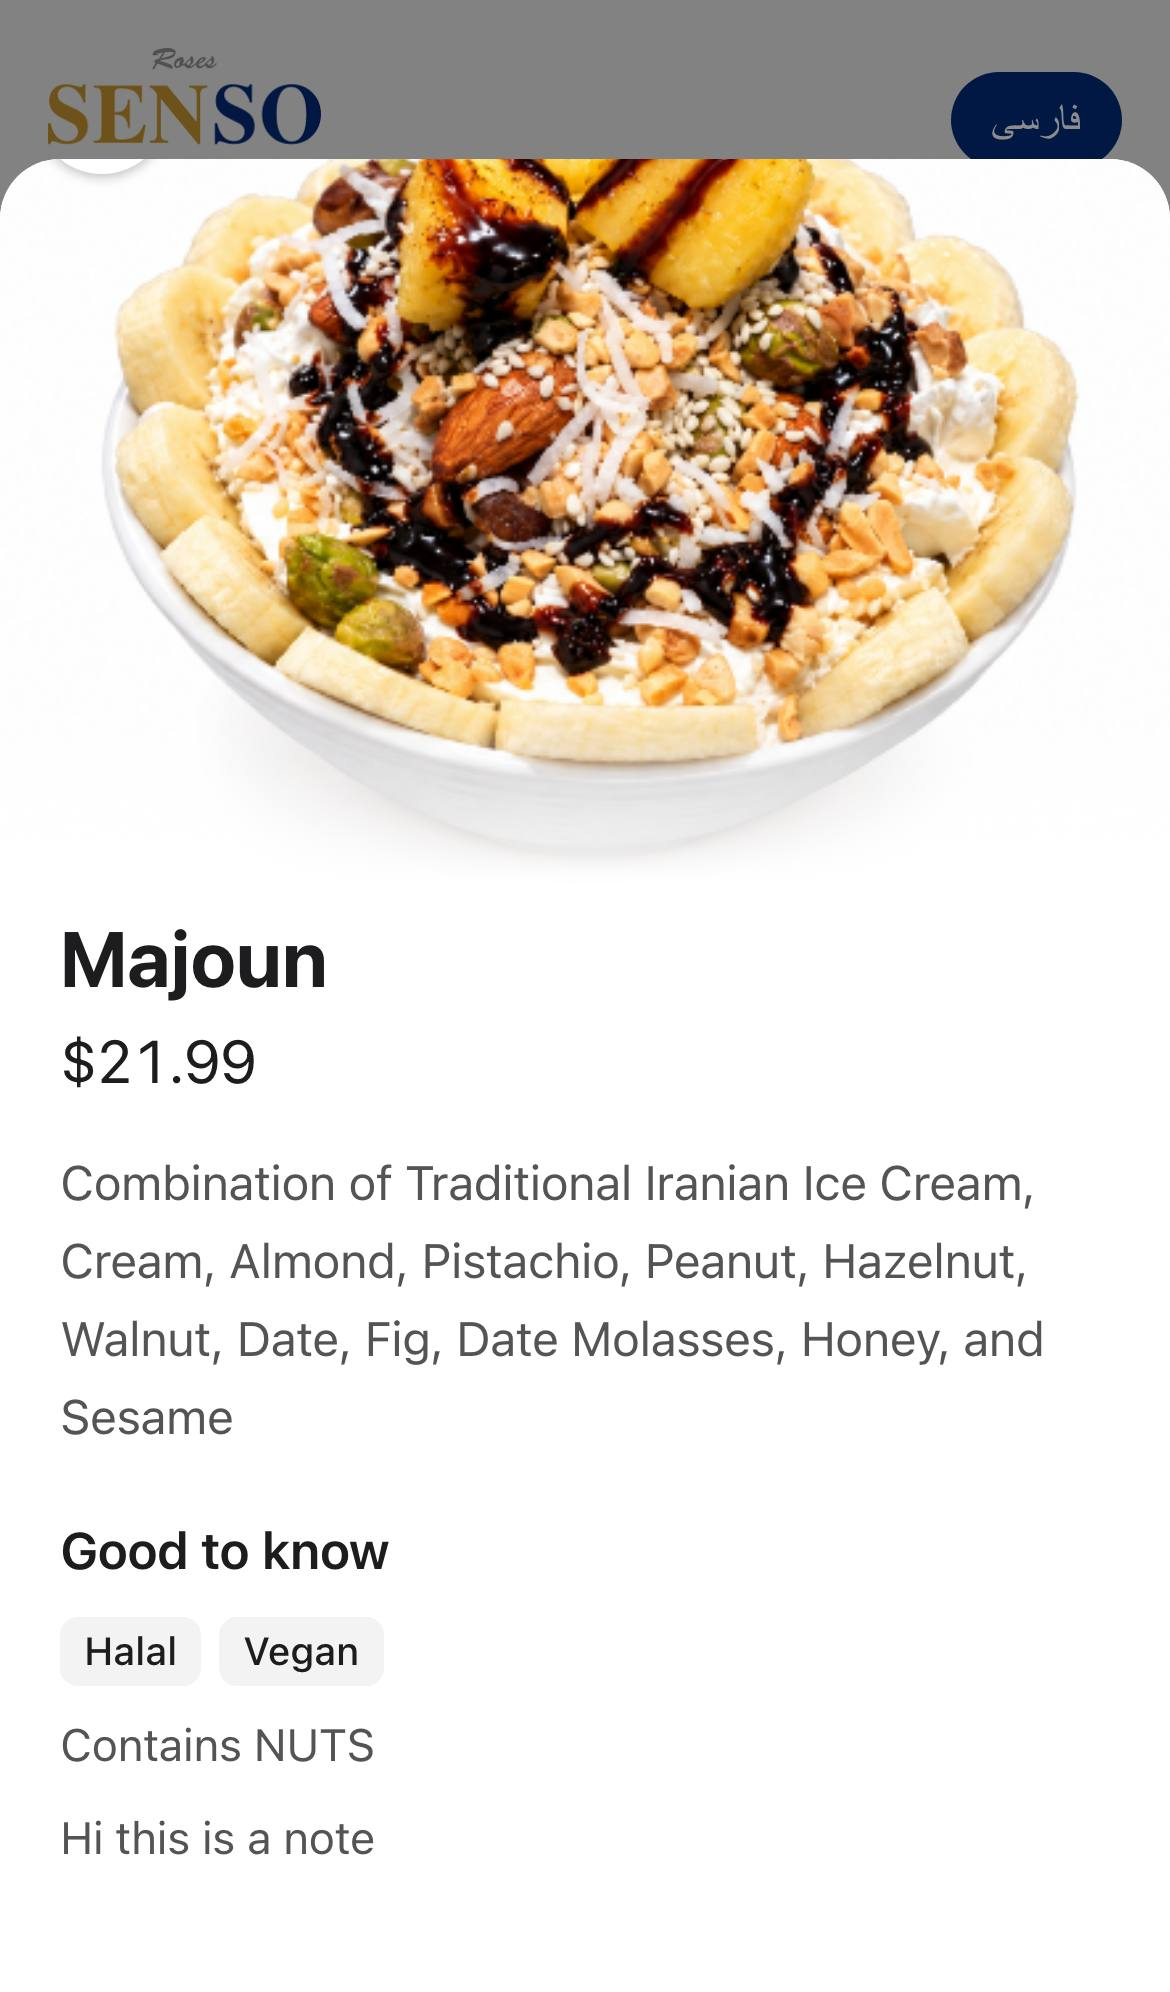
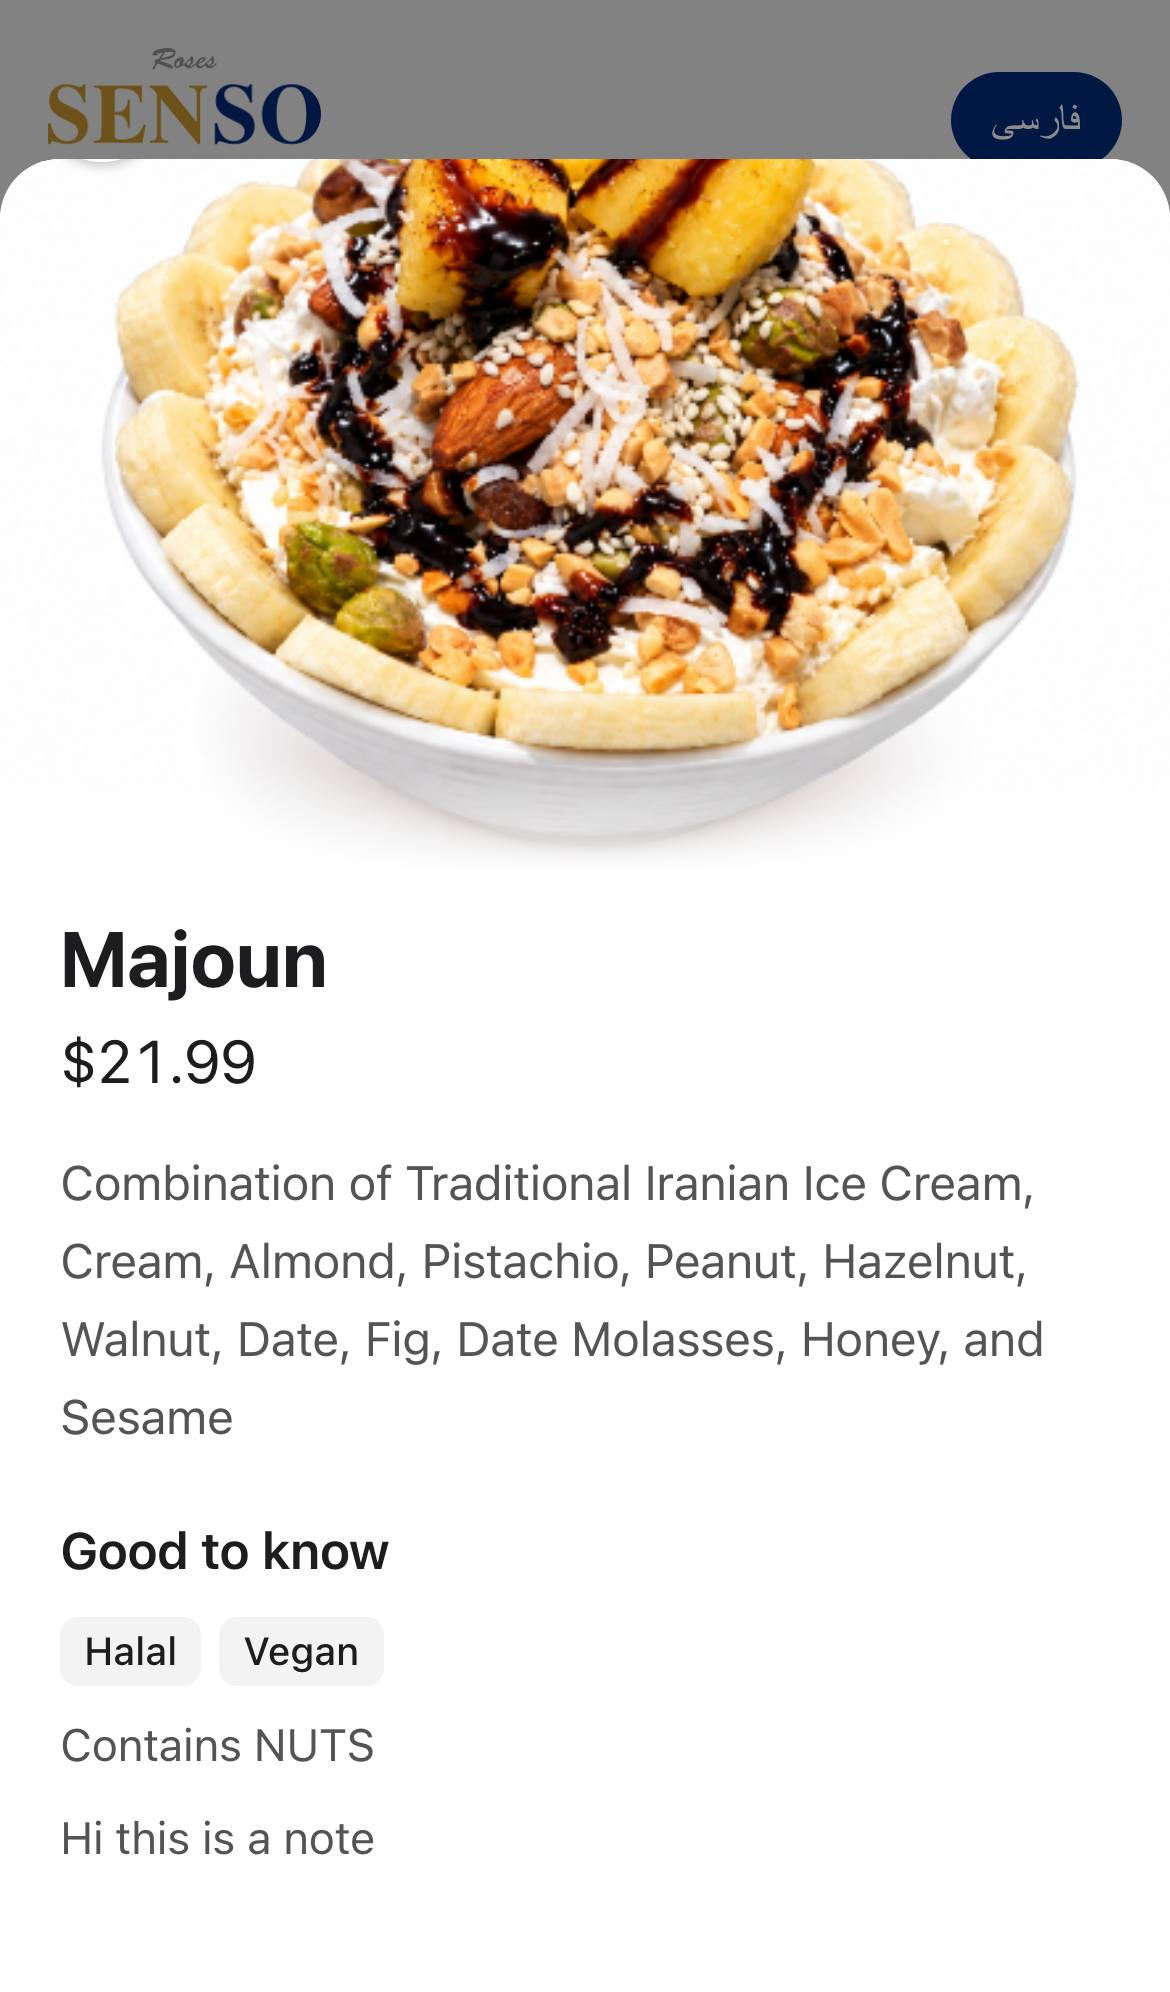
Item popup: the photo fade reduced to a slight edge, the lower 12 % of the photo (Kian, 2026-10-08)
Kian asked twice for less shade: 45 % with an opaque band, then 22 %, now a plain fade over the lower 12 % (35 px on a phone) with the title starting 8 px inside it. Re-measured in reports/sheet-motion.

Changed region(s): [[0.0923, 0.0622, 0.9231, 0.4046], [0.0615, 0.0622, 0.1231, 0.0934]]

diff --git a/src/styles/public.css b/src/styles/public.css
@@ -88,15 +88,15 @@ dialog.sheet.closing::backdrop { animation: dim-out .26s ease-in forwards; }
   dialog.sheet[open] { animation-name: sheet-in-centre; }
   dialog.sheet.closing { animation-name: sheet-out-centre; }
 }
-/* The photo (Kian, 2026-10-08): 4:3, its bottom edge softened by a short gradient to the sheet background (the lower 22 %
-   of the photo, a plain linear fade: Kian asked for much less shade than the first version, which covered 45 % and reached
-   full opacity at 70 % of its height); the title block starts 12 px inside the faded edge, so there is no hard crop line. */
+/* The photo (Kian, 2026-10-08): 4:3, its bottom edge softened by a slight gradient to the sheet background over the lower
+   12 % of the photo (a plain linear fade, about 35 px on a phone; Kian asked twice for less shade: the first version covered
+   45 % and reached full opacity at 70 % of its height, the second 22 %); the title block starts 8 px inside the faded edge. */
 .sheet-top { position: relative; min-height: 64px; }
 .sheet-hero { position: relative; }
 .sheet-hero[hidden] { display: none; }
 .sheet-hero img { display: block; width: 100%; aspect-ratio: 4 / 3; object-fit: cover; background: var(--c-sheet-hero); }
-.sheet-hero::after { content: ""; position: absolute; left: 0; right: 0; bottom: 0; height: 22%; background: linear-gradient(to bottom, transparent, var(--c-sheet-bg)); pointer-events: none; }
-dialog.sheet.has-photo #sheet-content { position: relative; margin-top: -12px; }
+.sheet-hero::after { content: ""; position: absolute; left: 0; right: 0; bottom: 0; height: 12%; background: linear-gradient(to bottom, transparent, var(--c-sheet-bg)); pointer-events: none; }
+dialog.sheet.has-photo #sheet-content { position: relative; margin-top: -8px; }
 .sheet-close { position: absolute; top: 12px; left: 12px; display: grid; place-items: center; width: 44px; height: 44px; border-radius: 9999px; background: var(--c-sheet-close-bg); color: var(--c-sheet-close-icon); }
 [dir="rtl"] .sheet-close { left: auto; right: 12px; }
 /* Section list (Kian, 2026-10-08): the same slide as the item sheet, at most three quarters of the screen (the page and its tab

diff --git a/docs/runbook.md b/docs/runbook.md
@@ -39,7 +39,7 @@ npm run admin:create -- --email <your email> --name "<your name>"
 - **Photos** (step 2): *Add photo* / *Replace photo* in the item editor and in *+ Add item* opens the phone's camera or photos. The photo is shrunk on the phone (at most 1400 px, JPEG) and uploaded; linked photos from the import keep working and can be replaced or removed the same way. Uploads live on local disk (see *Uploads* below).
 - **Tap-to-edit** (step 2): inside the preview, tap an item to open its editor, a section heading to rename it, or the header to open the Details tab. The customers' page itself has none of this: the admin attaches it to the frame after it loads.
 - **Style** tab (rebuilt 2026-10-08; owner and admin, staff get 403 on its route): the page's colours, grouped by the parts customers see from top to bottom (Page, Header, Category tabs, Section headings, Item rows, Item popup, Footer, Intro; `src/venues/tokens.ts`), then a *Layout* group with the template's switches (logo animation, photos in the list; what the header shows on the default template; `src/venues/styles.ts`). Every colour has a plain label and a swatch; open a group, tap a colour, pick from the venue's own colours (the brand record), the phone's colour picker or a hex field. Text, hairlines and chips are *linked* to the background they sit on: "Auto" means they follow it (dark or light text for readability, dividers a light shade of it); a colour you set is "Custom" with *Back to auto*. The readability guard refuses a colour that would be hard to read (WCAG contrast 4.5:1 for text, 3:1 for headings and the tab underline) with the ratio, the threshold and a one-tap nearest colour that passes. The open group is outlined in the preview; tapping a part of the page in the preview opens its group. The controls on the left are the master (Kian, 2026-10-08): a tap in the preview is acted on once, and nothing that follows (a save, the data or the preview reloading) changes the open group or the open colour; a tap on the region of the group that is already open keeps the colour you had open. *Reset group to venue default* on each group and *Reset all colours* (with a confirmation) at the bottom; Undo works after both. Values are saved per venue (`venues.style.colors` plus the layout keys); the recorded brand colours are never changed and are the swatches.
-- **Item popup and section list** (Kian, 2026-10-08): the item popup slides up when an item is tapped and slides back down when it is closed (Close, a tap outside, Escape or Back); its photo is 4:3 with a short soft fade at its bottom edge, and the owner's allergen, dietary and halal notes (set under *Advanced* in the item editor) show in it under *Good to know*: Halal / Not halal and each dietary word as chips, "Contains …" for the allergens, then the note in both languages; nothing is shown when they are empty. The section list (the list icon in the tab bar) opens and closes the same way, has a Close button at the top on the language's start side, takes at most three quarters of the screen so the page stays visible behind it, scrolls inside, and closes while the page scrolls to the tapped section. Phones with reduced motion on get no animation.
+- **Item popup and section list** (Kian, 2026-10-08): the item popup slides up when an item is tapped and slides back down when it is closed (Close, a tap outside, Escape or Back); its photo is 4:3 with a slight fade at its bottom edge (the lower 12 % of the photo), and the owner's allergen, dietary and halal notes (set under *Advanced* in the item editor) show in it under *Good to know*: Halal / Not halal and each dietary word as chips, "Contains …" for the allergens, then the note in both languages; nothing is shown when they are empty. The section list (the list icon in the tab bar) opens and closes the same way, has a Close button at the top on the language's start side, takes at most three quarters of the screen so the page stays visible behind it, scrolls inside, and closes while the page scrolls to the tapped section. Phones with reduced motion on get no animation.
 - **Section layout** (Kian, 2026-10-08; in the Style tab's *Layout* group, owner and admin): every section has a **List / Grid** switch. *List* is the full-width row with a small square photo; *Grid* shows the section as two columns of cards with a big square photo on top, the name and the price (Uber Eats-style; the description shows only in the popup), for sections such as juices, desserts or drinks where the photos sell. Same colours (the *Item rows* tokens), same item popup on tap; an item without a photo keeps the photo's place as a placeholder so the columns stay even. The choice is saved on the section (`sections.layout`, migration 005), shows in the preview at once with *Grid · Undo* / *List · Undo*, and is recorded like every other change. Staff cannot change it (the section route answers 403 for `layout`).
 - **Details** tab (step 2; owner and admin): name and tagline in both languages, the logo (upload from the phone; PNG or SVG with transparency looks best), locations (label, address, phone, hours; *To confirm* marks from the import clear when a field is edited or *Mark confirmed* is tapped; add and remove locations), and the switch *Show Persian drafts to customers*.
 - **+ Add venue** (step 2; owner and admin), in the venue dropdown: a name creates the venue on the **default template** with one empty section and opens its Details tab. Its customers' page is `/<id>` (the id is made from the English name) and is rendered on its first request, then regenerated on every save like the others.

diff --git a/CLAUDE.md b/CLAUDE.md
@@ -99,7 +99,7 @@ If you see a material problem with this stack for these requirements, raise it u
 ## Style tab: controls as the master, section layout List / Grid (Kian, 2026-10-08, built)
 
 - Bug fixed: while a colour was being edited, the open group jumped to another group. Cause: the "open the group tapped in the preview" step ran again every time the tab's data reloaded after a save, so a group tapped earlier in the preview reopened over the one being edited. Now a preview tap is acted on exactly once, when it happens; a tap on the region of the group already open keeps the open colour; the outlined region is state owned by the editor and flows to both previews (laptop frame, phone overlay), so the preview always follows the controls and never the other way round. The suite's Style drill replays the scenario (preview tap, another group opened, a colour saved: the group and its colour stay open through the save and both reloads).
-- Item popup and section list motion (Kian, 2026-10-08, later): the item popup slides up from the bottom edge when an item opens and slides back down before it closes (Close, a tap on the dim, Escape and Back all animate out); the photo is 4:3 with a short soft fade at its bottom edge (Kian, later the same day: much less shade than the first version, which covered 45 % of the photo), the title starting 12 px inside it; grid cards carry no description. The owner's allergen, dietary and halal notes (ruling 10) now show to customers in the popup under "Good to know" (chips for Halal / Not halal and the dietary words, "Contains …" for the allergens, the note in both languages), only when set; the public query carries `items.notes`. The section list opens and closes with the same motion, has a Close button on the language's start side (left in English, right in Persian), takes at most three quarters of the screen (the page and its tab bar stay visible behind it) and scrolls inside; a tap on a section starts its exit and the page's smooth scroll together. Reduced motion: no animation. CSS and the kit's inline script only; no runtime JavaScript, no new tokens.
+- Item popup and section list motion (Kian, 2026-10-08, later): the item popup slides up from the bottom edge when an item opens and slides back down before it closes (Close, a tap on the dim, Escape and Back all animate out); the photo is 4:3 with a slight fade at its bottom edge over its lower 12 % (Kian asked twice for less shade: the first version covered 45 % of the photo, the second 22 %), the title starting 8 px inside it; grid cards carry no description. The owner's allergen, dietary and halal notes (ruling 10) now show to customers in the popup under "Good to know" (chips for Halal / Not halal and the dietary words, "Contains …" for the allergens, the note in both languages), only when set; the public query carries `items.notes`. The section list opens and closes with the same motion, has a Close button on the language's start side (left in English, right in Persian), takes at most three quarters of the screen (the page and its tab bar stay visible behind it) and scrolls inside; a tap on a section starts its exit and the page's smooth scroll together. Reduced motion: no animation. CSS and the kit's inline script only; no runtime JavaScript, no new tokens.
 - Section layout: every section is shown to customers as a **List** (the rows of 2026-10-07) or a **Grid** (two columns of cards with a big square photo, the name and the price, Uber Eats-style; the description shows only in the popup, Kian, same day), chosen per section in the Style tab's Layout group (owner and admin; staff get 403 on the field). Same colour tokens (Item rows), same item popup; an item without a photo keeps a placeholder so the columns stay even; the first two cards of the first section load their photo eagerly. Data-model change made for this: `sections.layout` text, 'list' | 'grid', default 'list' (migration 005), carried in the change records and by Undo. Alternative considered and rejected: a list of grid section ids inside `venues.style` (no migration, but the choice would not follow the section through delete, Undo and restore). Public pages still run without runtime JavaScript; no new dependency.
 
 ## Milestone 1 rules (Kian and the PM, 2026-10-07)

diff --git a/reports/sheet-motion/README.md b/reports/sheet-motion/README.md
@@ -1,6 +1,6 @@
 # Item popup and section list: slide in, slide out, photo fade, shorter list (Kian, 2026-10-08)
 
-**Item popup.** Slides up from the bottom edge when an item opens (340 ms, ease-out) and slides back down before it closes (260 ms, ease-in; the script keeps the dialog open under a `.closing` class until the exit animation ends). Close, a tap on the dim, Escape and Back all animate out; the dim fades with it. The photo is 4:3; its bottom edge is softened by a short plain fade to the popup background over its lower 22 % (Kian, later the same day: the first version shaded 45 % of the photo and was too heavy), and the title block starts 12 px inside that edge, so there is no hard crop line. Grid cards no longer carry the description, so the popup is where it reads. The owner's allergen, dietary and halal notes (ruling 10) show in the popup under **Good to know**: Halal / Not halal and each dietary word as chips, "Contains …" for the allergens, then the note in both languages; nothing when they are empty.
+**Item popup.** Slides up from the bottom edge when an item opens (340 ms, ease-out) and slides back down before it closes (260 ms, ease-in; the script keeps the dialog open under a `.closing` class until the exit animation ends). Close, a tap on the dim, Escape and Back all animate out; the dim fades with it. The photo is 4:3; its bottom edge is softened by a slight plain fade to the popup background over its lower 12 % (Kian asked twice for less shade: the first version covered 45 % of the photo, the second 22 %), and the title block starts 8 px inside that edge, so there is no hard crop line. Grid cards no longer carry the description, so the popup is where it reads. The owner's allergen, dietary and halal notes (ruling 10) show in the popup under **Good to know**: Halal / Not halal and each dietary word as chips, "Contains …" for the allergens, then the note in both languages; nothing when they are empty.
 
 **Section list** (the list icon in the tab bar). Same slide in and out. A Close button at the top on the language's start side (left in English, right in Persian), the caption centred, the top row sticky. At most 75 % of the screen so the page and its tab bar stay visible behind it (more room to tap out), scrollable inside. A tap on a section starts the list's exit and the page's smooth scroll in the same frame.
 
@@ -10,10 +10,10 @@ Reduced motion: no animation, open and close at once. CSS and the kit's inline s
 
 | what | measured |
 |---|---|
-| popup opens | first frame 13 ms after the tap at translateY 407 px (its own height), settled at 0 after 329 ms; dim 0 → 0.45 |
-| popup look | `has-photo` set; photo 390 × 293 (4:3); fade strip 64 px tall (22 % of the photo, `linear-gradient` from transparent to the popup background); content margin −12 px; title top 8 px below the photo's bottom edge; Close at 12 px from the left (English) and 12 px from the right (Persian) |
+| popup opens | first frame 14 ms after the tap at translateY 411 px (its own height), settled at 0 after 327 ms; dim 0 → 0.45 |
+| popup look | `has-photo` set; photo 390 × 293 (4:3); fade strip 35 px tall (12 % of the photo, `linear-gradient` from transparent to the popup background); content margin −8 px; title top 12 px below the photo's bottom edge; Close at 12 px from the left (English) and 12 px from the right (Persian) |
 | owner's notes (Majoun) | popup shows "Good to know" with the chips Halal and Vegan, "Contains NUTS" and the note; in Persian: نکات · حلال · Vegan · حاوی NUTS · the Persian note (a dietary word is shown as the owner typed it); an item without notes (Green Mojito) has no such block |
-| popup closes (Close button) | `.closing` from 49 ms after the tap, the dialog closed at 315 ms, slid to 382 px with the dim at 0.03 just before |
+| popup closes (Close button) | `.closing` from 65 ms after the tap, the dialog closed at 332 ms, slid to 386 px with the dim at 0.03 just before |
 | Escape · Back | both animate out; closed after 278 ms · 280 ms |
 | from a grid card | opens, `has-photo` set |
 | list opens | first frame 48 ms after the tap at translateY 498 px, settled after 364 ms |
